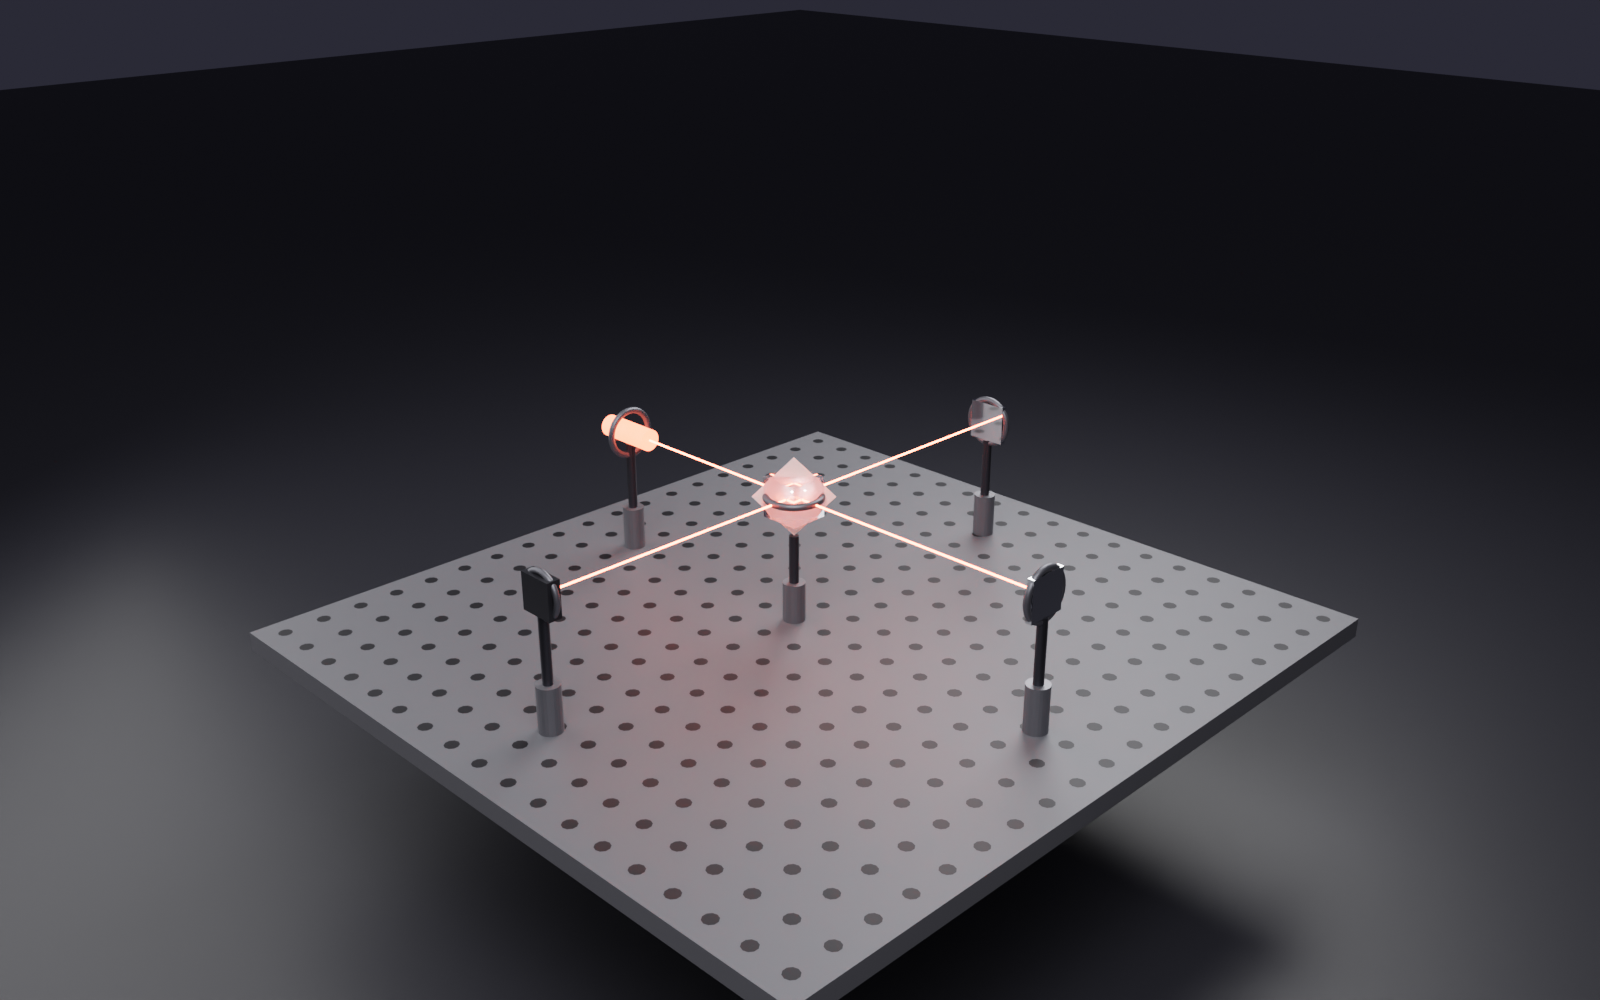
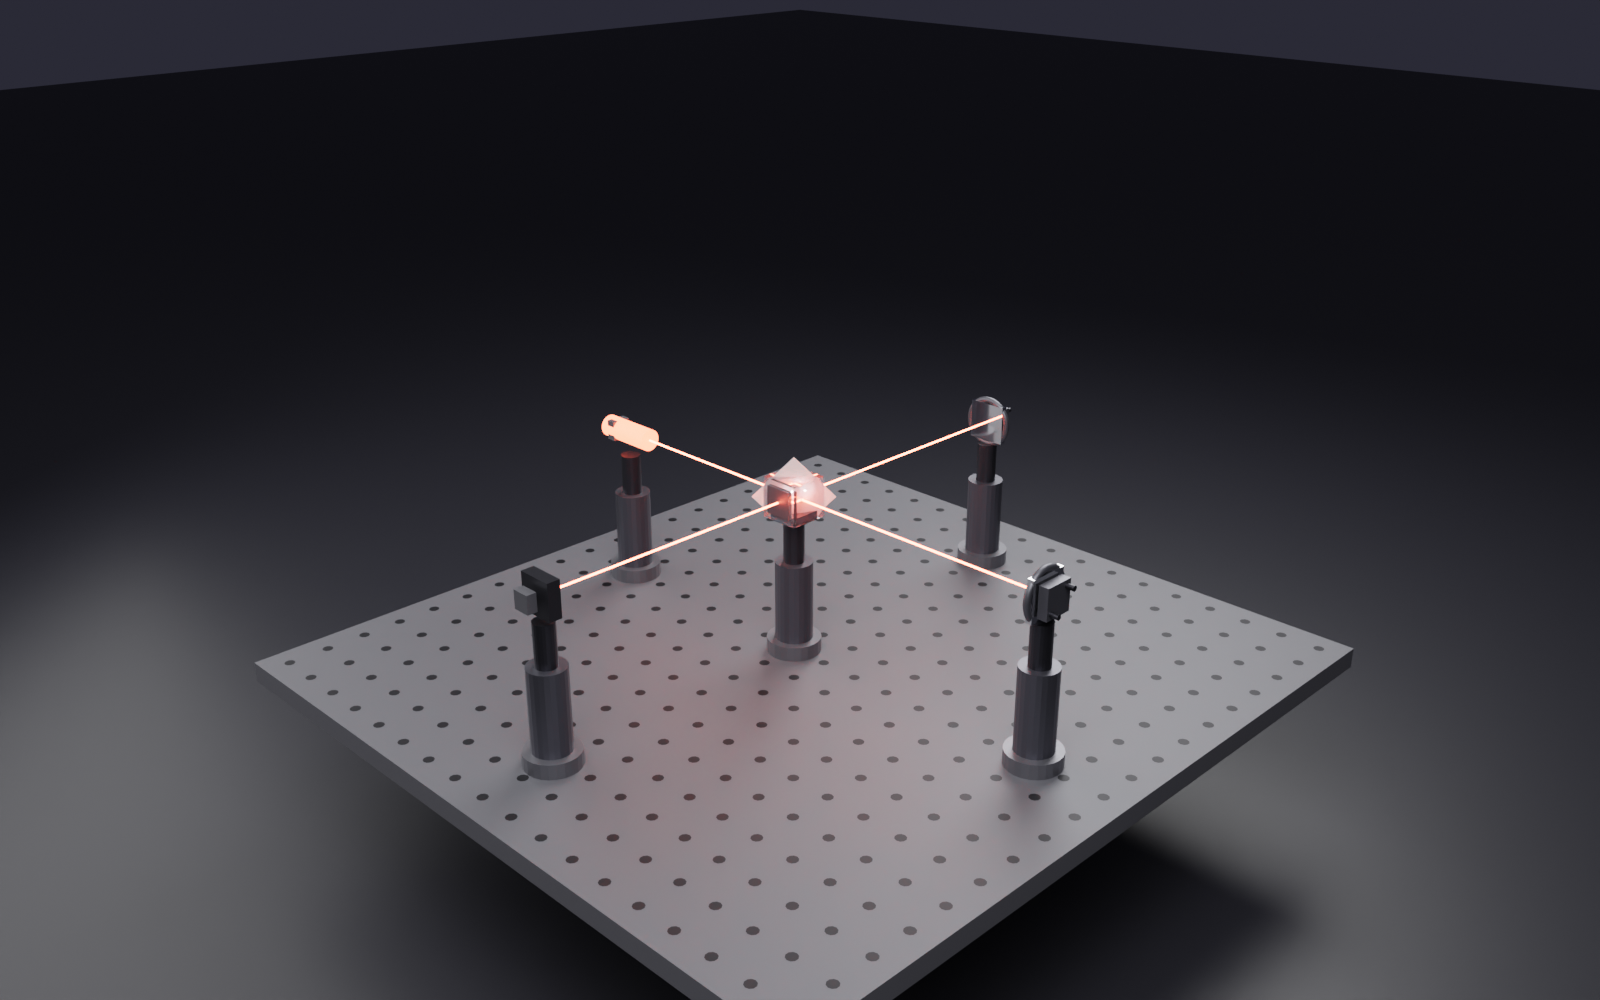
feat(optomech): mount-type-specific geometry (Phase 2.6 / P1a)
dress() now draws a distinct mount silhouette per element/mount type instead of one
generic torus, so the bench reads by mount the way a real table does:
- MIRROR / KINEMATIC_2AXIS -> square kinematic back-plate + two adjuster screws + retaining ring
- WAVEPLATE/POLARIZER / ROTATION -> knurled rotation collar + radial index nub
- LENS/FILTER/WINDOW -> threaded retaining ring inside a short lens cell
- BEAMSPLITTER/PRISM_MIRROR -> cube platform mount (base + back plate), fixing the old bug
  where a cube was wrapped by a horizontal hoop framing nothing (ring axis came from the raw
  matrix vertical, not the optical face)
- SOURCE/FIBER_COLLIMATOR/DETECTOR/PHOTODIODE/POWER_METER/WAVEFRONT_SENSOR -> a bracket, not an
  optic retaining ring clipping the self-contained body

Each silhouette is built in the optic's own local frame (_build_mount + oriented _obox/_ocyl
helpers). All decoration in COL_BENCH, no ports -> trace byte-identical. Regression 114 -> 119.
README hero re-rendered (uniform Ø12.7 posts + distinct mounts).

Changed region(s): [[0.1562, 0.403, 0.8438, 1.0]]

diff --git a/optical_alignment_sim/optomech.py b/optical_alignment_sim/optomech.py
@@ -10,6 +10,8 @@ Built on demand (a render-prep step), re-runnable, fully reversible. GPL-clean o
 """
 from __future__ import annotations
 
+import math
+
 import bpy
 from mathutils import Vector, Matrix
 
@@ -224,6 +226,83 @@ def _hole_grid(name, x0, y0, nx, ny, pitch, top_z, coll, hole_r=None):
     return o
 
 
+# ---------------------------------------------------------------------------
+# Mount-type-specific geometry (a real bench reads by mount silhouette)
+# ---------------------------------------------------------------------------
+# A physicist tells a steering mirror (kinematic mount, adjuster screws) from a waveplate
+# (rotation collar with a scale) from a lens (threaded retaining ring) from a beamsplitter (cube
+# platform) at a glance. dress() used to draw the same torus for all of them; _build_mount() gives
+# each its own silhouette, oriented in the optic's own frame so it frames the actual optical face
+# (fixing the old beamsplitter "horizontal hoop" bug — a cube gets a platform, not a ring).
+
+_SOURCE_DET = {'SOURCE', 'FIBER_COLLIMATOR', 'DETECTOR', 'PHOTODIODE', 'POWER_METER', 'WAVEFRONT_SENSOR'}
+
+
+def _obox(name, size, mw, off, coll, matkey):
+    o = eg._cube(name, Vector(size), coll)
+    o.matrix_world = mw @ Matrix.Translation(Vector(off))
+    o.data.materials.clear(); o.data.materials.append(_MATS[matkey]())
+    return o
+
+
+def _ocyl(name, r, depth, mw, off, coll, matkey, axis='Z'):
+    bpy.ops.mesh.primitive_cylinder_add(radius=r, depth=depth, location=(0, 0, 0), vertices=24)
+    o = bpy.context.active_object
+    o.name = name
+    rot = Matrix.Identity(4)
+    if axis == 'X':
+        rot = Matrix.Rotation(math.radians(90), 4, 'Y')
+    elif axis == 'Y':
+        rot = Matrix.Rotation(math.radians(90), 4, 'X')
+    o.matrix_world = (mw @ Matrix.Translation(Vector(off))) @ rot
+    o.data.materials.clear(); o.data.materials.append(_MATS[matkey]())
+    eg._link_only(o, coll)
+    return o
+
+
+def _build_mount(o, coll, idx):
+    """Build the mount silhouette that matches the element's mount/element type, oriented in the
+    optic's local frame (local +Z is the optical axis for inline parts; the cube body for splitters).
+    Returns the number of objects created. All decoration: no ports, never traced."""
+    op = o.optics
+    et = op.element_type
+    mt = getattr(op, "mount_type", 'FIXED')
+    ca = max(getattr(op, "clear_aperture", 10.0), 6.0)
+    p = o.matrix_world.translation
+    mw = Matrix.Translation(p) @ o.matrix_world.to_3x3().to_4x4()
+    pre = BENCH_PREFIX
+    nm = "%02d" % idx
+
+    if et in _SOURCE_DET:
+        # self-contained body (laser/camera/crystal): a saddle bracket toward the post, no optic ring
+        _obox(pre + "Bracket_" + nm, (ca * 1.0, ca * 1.0, 6.0), mw, (0, 0, -ca * 0.9), coll, "clamp")
+        return 1
+    if et in {'BEAMSPLITTER', 'PRISM_MIRROR'}:
+        # cube mount: a platform plate under the cube + a back plate, aligned to the cube faces
+        s = ca * 1.25
+        _obox(pre + "CubeBase_" + nm, (s, s, 5.0), mw, (0, 0, -s * 0.62), coll, "mount")
+        _obox(pre + "CubeBack_" + nm, (s, 5.0, s), mw, (0, -s * 0.62, 0), coll, "mount")
+        return 2
+    if mt == 'ROTATION' or et in {'WAVEPLATE', 'POLARIZER'}:
+        # rotation mount: optic ring + a wider knurled collar + a radial index nub (reads "rotates")
+        _ring(pre + "Mount_" + nm, ca * 1.18, ca * 0.16, mw, coll)
+        _ocyl(pre + "Collar_" + nm, ca * 1.5, 6.0, mw, (0, 0, 0), coll, "mount")
+        _obox(pre + "Index_" + nm, (2.5, 2.5, 4.0), mw, (ca * 1.5, 0, 0), coll, "post")
+        return 3
+    if mt == 'KINEMATIC_2AXIS' or et == 'MIRROR':
+        # kinematic mount: square back-plate behind the optic + retaining ring + two adjuster screws
+        plate = ca * 1.5
+        _obox(pre + "KMplate_" + nm, (plate, plate, 6.0), mw, (0, 0, -6.0), coll, "mount")
+        _ring(pre + "Mount_" + nm, ca * 1.18, ca * 0.16, mw, coll)
+        _ocyl(pre + "Adj1_" + nm, 1.6, 11.0, mw, (plate * 0.32, plate * 0.32, -8.5), coll, "post")
+        _ocyl(pre + "Adj2_" + nm, 1.6, 11.0, mw, (-plate * 0.32, -plate * 0.32, -8.5), coll, "post")
+        return 4
+    # threaded lens / filter / window / generic: a retaining ring inside a short lens-cell wall
+    _ring(pre + "Mount_" + nm, ca * 1.18, ca * 0.16, mw, coll)
+    _ocyl(pre + "Cell_" + nm, ca * 1.28, 5.0, mw, (0, 0, 0), coll, "mount")
+    return 2
+
+
 def dress(scene, post_radius=POST_RADIUS):
     """Spawn a hole-grid breadboard under the optics, then a beam-height-driven post + post-holder
     base under each element and a mount ring framing the optic. The board top sits one beam height
@@ -270,11 +349,8 @@ def dress(scene, post_radius=POST_RADIUS):
              (p.x, p.y, board_top_z + BASE_H + HOLDER_H * 0.5), coll, "holder")
         _cyl(BENCH_PREFIX + "Post_%02d" % i, post_radius, h,
              (p.x, p.y, board_top_z + h * 0.5), coll, "post")
-        # mount ring framing the optic, in its own transverse plane (orientation from its matrix)
-        ca = max(getattr(o.optics, "clear_aperture", 10.0), 6.0)
-        mw = Matrix.Translation(p) @ o.matrix_world.to_3x3().to_4x4()
-        _ring(BENCH_PREFIX + "Mount_%02d" % i, ca * 1.18, ca * 0.16, mw, coll)
-        n += 4
+        # mount silhouette matched to the element/mount type (kinematic / rotation / cube / lens...)
+        n += 3 + _build_mount(o, coll, i)
     return n
 
 

diff --git a/tests/test_optics.py b/tests/test_optics.py
@@ -496,6 +496,23 @@ check("posts still equal at new height", max(o["post_length_mm"] for o in _bh2["
 optomech.strip(sc)
 sc.optics.beam_height_mm = 100.0
 
+print("[bench mount silhouettes: type-specific, trace-safe]")
+optics_api.build_example("michelson")
+_nseg = len(scan._trace(sc))
+optomech.dress(sc)
+check("mount geometry leaves trace identical", len(scan._trace(sc)) == _nseg)
+_names = [o.name for o in sc.objects if o.name.startswith("BENCH_")]
+_has = lambda pre: any(n.startswith("BENCH_" + pre) for n in _names)
+check("mirrors get a kinematic back-plate", _has("KMplate"))
+check("beamsplitter gets a cube platform (not a hoop)", _has("CubeBase"))
+check("sources/detectors get a bracket, not an optic ring", _has("Bracket"))
+# the beamsplitter must NOT be wrapped by a torus Mount ring (the old horizontal-hoop bug)
+_bs = next((o for o in sc.objects if getattr(o.optics, "is_optical", False) and o.optics.element_type == 'BEAMSPLITTER'), None)
+if _bs is not None:
+    _bi = [o.name for o in sc.objects if getattr(o.optics, "is_optical", False) and o.optics.element_type not in ('NONE',)].index(_bs.name)
+    check("no Mount ring on the beamsplitter", not _has("Mount_%02d" % _bi), _bs.name)
+optomech.strip(sc)
+
 oas.unregister()
 
 passed = sum(1 for _, ok in _checks if ok)

diff --git a/CHANGELOG.md b/CHANGELOG.md
@@ -23,8 +23,14 @@ semantic versioning.
   an agent knows not just *which hole* but *how tall the post* under each optic is.
 - Trace-safe: optics are never moved (only the decoration's Z follows the datum), so the beam path
   is byte-identical before/after dressing and across beam-height changes. Regression 104 → 114.
-
-## [0.6.0]
+- **Mount-type-specific geometry (Phase 1).** *Dress Bench* now draws a different mount silhouette
+  per element/mount type instead of one generic ring: mirrors get a **kinematic back-plate + two
+  adjuster screws**, waveplates/polarizers a **knurled rotation collar + index nub**, lenses/filters
+  a **threaded retaining ring in a lens cell**, beamsplitters/prism cubes a **cube platform mount**
+  (fixing the old bug where a cube was wrapped by a horizontal hoop framing nothing), and
+  lasers/cameras/detectors a **bracket** instead of an optic retaining ring clipping their body. A
+  physicist now reads the bench by mount silhouette, as on a real table. Still pure decoration,
+  oriented in each optic's own frame; trace byte-identical. Regression 114 → 119.
 
 ### Added
 - **Mechanically-correct breadboard hole grid.** *Dress Bench* now lays the optics on a real
